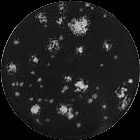
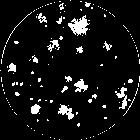
function completed

diff --git a/main.py b/main.py
@@ -58,21 +58,7 @@ def preprocessing_IMG(img_path, method="blur", morph="OPEN", kernel=(11, 11)):
         return contours, hierarchy
     else:
         print("Other situiation")
-    
 
-"""
-#using contour methods to mask user wanted pictures
-
-for i, cnt in enumerate(cnts):
-    (x, y, w, h) = cv.boundingRect(cnt)
-    print("Sample #{}".format(i+1))
-    sample = sample_o[y:y+h, x:x+w]
-    mask = np.zeros(imgray_b.shape[:2], dtype="uint8")
-    ((centerX, centerY), radius) = cv.minEnclosingCircle(cnt)
-    cv.circle(mask, (int(centerX), int(centerY)), int(radius), (255, 255, 255), -1)
-    mask = mask[y:y+h, x:x+w]
-    showIMG(cv.bitwise_and(sample, sample, mask=mask), "sample + mask")
-"""
 
 def make_dir(dirname):
     if os.path.isdir(dirname):
@@ -80,6 +66,7 @@ def make_dir(dirname):
     else:
         print("creating directory...")
         os.mkdir(dirname)
+
 
 def delete_dir(dirname):
     try:
@@ -94,7 +81,6 @@ def delete_dir(dirname):
     else:
         print("directory is not exit.")
     
-
 
 def make_gif(path, gifname, duration=100):
     """many images converted to GIF"""
@@ -114,6 +100,7 @@ def make_gif(path, gifname, duration=100):
         print("PermissionError")
     
     imgs[0].save(gifname + ".gif", format='GIF', save_all=True, append_images=imgs[1:], duration=duration, loop=0)
+
 
 def houghcircle_processing_IMG(img_path, mask=False):
     img = cv.imread(img_path, 0)
@@ -170,19 +157,24 @@ def preprocessing_Slicing_IMG(img_path, kernel=(1, 1), threshold=70):
 def counting_numbers(contours, eraseout=True):
     if eraseout == True:
         contours_area = [cv.contourArea(contour) for contour in contours]
+        contours_area = [x for x in contours_area if x > 0]
+        contours_area = sorted(contours_area)
         contours_area = contours_area[:-1]
         return len(contours_area)
     
 
-
 def counting_area(contours, eraseout=True):
     if eraseout == True:
         contours_area = [cv.contourArea(contour) for contour in contours]
+        contours_area = [x for x in contours_area if x > 0]
+        contours_area = sorted(contours_area)
+        contours_area = contours_area[:-1]
         area_total = sum(contours_area)
         return area_total
 
 
 def counting_area_ratio(areas, relative="bacteria_area", sample_area=None):
+    
     if relative is not "sample_area":
         ratio_area = [area / max(areas) for area in areas]
         return ratio_area
@@ -193,16 +185,6 @@ def counting_area_ratio(areas, relative="bacteria_area", sample_area=None):
 
 def main():
     pass
-
-
-"""    
-for thres in range(180):
-    temp_img = binarize_img(img_path, thres)
-    images.append(temp_img)
-    print("Proccessing image for threshold : {}".format(thres))
-
-make_gif_PIL(images, "pillow_imagedraw")
-"""
 
 
 if __name__ == '__main__':
@@ -220,42 +202,25 @@ if __name__ == '__main__':
     #hangle with each sample : counting the # of dots and areas
 
     areas = []
+    counts_cluster = []
+
     dir_path = "./gif"
     filelist = os.listdir(dir_path)
     for file in filelist:
-        filepath = path + '/' + file
+        filepath = dir_path + '/' + file
         if os.path.isfile(filepath):
-            print("Append file : {}".format(filepath))
+            #print("Append file : {}".format(filepath))
             contours, hierarchy = preprocessing_Slicing_IMG(filepath)
-            areas.ap
             counts = counting_numbers(contours)
             area = counting_area(contours)
-
-
+            counts_cluster.append(counts)
+            areas.append(area)
+            #print("Counts: {}, Area: {}".format(counts, area))
         else:
             print("{} is not a file".format(filepath))
 
+    #print("area ratio: {}".format(counting_area_ratio(areas)))
+    ratios = counting_area_ratio(areas)
 
-"""
-    sample_path = "./gif/17.jpg"
-    tmp_img = binarize_img(sample_path, 90) #讀取路徑
-    tmp_img.save("./gif/17_tmp.jpg")
-    tmp_img = cv.imread("./gif/17_tmp.jpg") #讀取路徑
-    #showIMG(tmp_img, "tmp", 1000)
-    sample = cv.imread("./gif/17_tmp.jpg")
-    sample_copy = sample.copy()
-    contours, hierarchy = preprocessing_IMG(sample_path, "blur", "open", (1, 1))
-    cv.drawContours(sample_copy, contours, -1, (0, 255, 0), 2)
-    contours_area = [cv.contourArea(contour) for contour in contours]
-    total = sum(contours_area)
-    nested_contours = [x for x in contours_area if x > 0]
-    print(sorted(nested_contours))
-    print("AREA: {}, LEN: {}".format(total, len(nested_contours)))
-    #showIMG(sample_copy, "tmp", 10000)
-"""
-
-#思路整理
-#1.讀取切片後的圖片資料夾
-#2.進行二值化
-#3.獲取contours之後對contours進行排序
-#4.如果
+    for i in range(len(counts_cluster)):
+        print("Counts: {}, Area: {}, Ratio: {}".format(counts_cluster[i], areas[i], ratios[i]))
